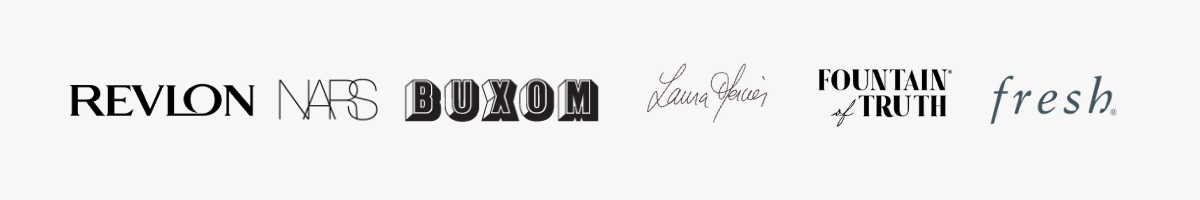
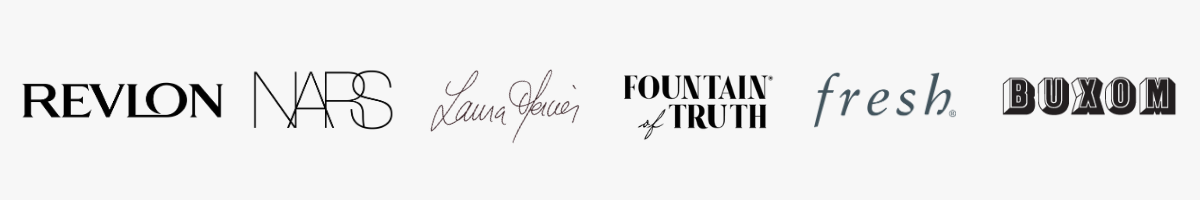
discount codes

Changed region(s): [[0.0, 0.33, 0.6475, 0.69], [0.6783, 0.33, 0.9867, 0.63], [0.185, 0.36, 0.2158, 0.39]]

diff --git a/discountcodes.html b/discountcodes.html
@@ -1,0 +1,123 @@
+<!DOCTYPE HTML>
+<html>
+	<head>
+		<title>Yazi Cole</title>
+		<meta charset="utf-8" />
+		<meta name="viewport" content="width=device-width, initial-scale=1, user-scalable=no" />
+		<link rel="stylesheet" href="assets/css/home.css" />
+	</head>
+	<body class="homepage is-preload">
+		<div id="page-wrapper">
+
+			<!-- Header -->
+				<section id="header">
+                    
+                    
+					<!-- Logo -->
+                    <script src="https://kit.fontawesome.com/757befd169.js" crossorigin="anonymous"></script>
+                    <h1><a href="index.html" >Yazi Cole</a></h1>
+									<ul class="social">
+										 <li><a href="https://www.tiktok.com/@yazicole" class="fab fa-tiktok" target="_blank"></a></li>
+                                        <li><a href="https://www.instagram.com/yazicole/" class="icon brands fa-instagram" target="_blank"><span class="label">Instagram</span></a></li>
+                                        <li><a href="https://www.youtube.com/yazicole" class="icon brands fa-youtube" target="_blank"><span class="label">YouTube</span></a></li>
+                                        <li><a href="https://www.facebook.com/YaziCole/" class="icon brands fa-facebook-f" target="_blank"><span class="label">Facebook</span></a></li>
+										<li><a href="https://www.pinterest.com/YaziCole/" class="icon brands fa-pinterest-p" target="_blank"><span class="label">Pinterest</span></a></li>
+									</ul>
+								
+					<!-- Navigation -->
+						<nav id="nav">
+							<ul>
+								<li><a href="index.html">Home</a></li>
+								<li><a href="gallery.html" target="_blank">Gallery</a></li>
+								<li>
+                                    <a href="#">Yazi Finds</a>
+                                    <ul>
+										<li><a href="#">Best Sellers</a></li>
+										<li><a href="#">Newest Finds</a></li>
+										<li><a href="#">My Favorites</a></li>
+                                    </ul>
+                                </li>
+								<li class="current"><a href="discountcodes.html">Discount Codes</a></li>
+								<li><a href="#">Contact</a></li>
+							</ul>
+						</nav>
+                        <br>
+                    
+                    
+					<!-- Discount Codes -->
+                    <section id="intro" class="container">
+                        
+				<div class="container">
+                    
+					<div class="row gtr-150">
+						<div class="col-6 col-12-medium">
+							
+                            <!-- Picture -->
+                            <span class="image fit"><img src="images/discountpicture.jpg" alt="" /></span>
+							
+						</div>
+						<div class="col-6 col-12-medium imp-medium">
+                            <header class="major"><h2>Discount Codes</h2></header>
+                            <p style="color:black">Save money and shop your favorite products by using the codes below.</p>
+                            <br>
+                            
+									<a href="https://us.shein.com/" target="_blank" class="button alt large">SHEIN "YAZICOLE15"</a>
+                                <br>
+                            <br>
+									<a href="https://glamnetic.com/" target="_blank" class="button alt large">GLAMNETIC "TIKTOK25"</a>
+                                <br>
+                            <br>
+								<a href="https://ttdeye.com/" target="_blank" class="button alt large">TTDEYE “YAZICOLE”</a>
+						</div>
+					</div>
+				</div>
+                    </section>
+                    </section>
+            
+            <!-- Footer -->
+            <div id="footer">
+                <div class="container">
+                    <h2>Stay Connected</h2>
+                    
+                <ul class="social">
+								        <li>
+                                            <a href="https://www.tiktok.com/@yazicole" class="fab fa-tiktok" target="_blank"></a>
+                                        </li>
+                                        <li><a href="https://www.instagram.com/yazicole/" class="icon brands fa-instagram" target="_blank"><span class="label">Instagram</span></a>
+                                        </li>
+                                        <li>
+                                        <a href="https://www.youtube.com/yazicole" class="icon brands fa-youtube" target="_blank"><span class="label">YouTube</span></a>
+                                        </li>
+                                        <li>
+                                        <a href="https://www.facebook.com/YaziCole/" class="icon brands fa-facebook-f" target="_blank"><span class="label">Facebook</span></a>
+                                        </li>
+                                        <li>
+										<a href="https://www.pinterest.com/YaziCole/" class="icon brands fa-pinterest-p" target="_blank"><span class="label">Pinterest</span></a>
+                                        </li>
+									</ul>
+									
+                </div>
+            </div>
+            
+            <!-- Copyright -->
+            <div id="copyright">
+                <ul class="links">
+				    <li>&copy; YaziCole, <script>
+                        var CurrentYear = new Date().getFullYear()
+                        document.write(CurrentYear)
+                        </script>. All rights reserved.</li>
+                </ul>
+            </div>
+            
+
+
+		<!-- Scripts -->
+			<script src="assets/js/jquery.min.js"></script>
+			<script src="assets/js/jquery.dropotron.min.js"></script>
+			<script src="assets/js/browser.min.js"></script>
+			<script src="assets/js/breakpoints.min.js"></script>
+			<script src="assets/js/util.js"></script>
+			<script src="assets/js/main.js"></script>
+            
+	</body>
+</html>

diff --git a/index.html b/index.html
@@ -37,7 +37,7 @@
 										<li><a href="#">My Favorites</a></li>
                                     </ul>
                                 </li>
-								<li><a href="#">Discount Codes</a></li>
+								<li><a href="discountcodes.html">Discount Codes</a></li>
 								<li><a href="#">Contact</a></li>
 							</ul>
 						</nav>
@@ -86,7 +86,7 @@
                 
 					<div class="container">
                         <a href="#" class="image featured" target="_blank">
-								<img src="images/brands1.png" alt="revlon nars laura mercier fountain of truth fresh buxom" />
+								<img src="images/brands.png" alt="revlon nars laura mercier fountain of truth fresh buxom" />
 							</a>                   
                                 
 				<!-- Demographics -->
@@ -96,7 +96,7 @@
 										</header>
                                         
                     <a href="https://www.tiktok.com/@yazicole" class="image featured" target="_blank">
-								<img src="images/demographics2.png" alt="Tiktok demographics for yazicole" />
+								<img src="images/demographics.png" alt="Tiktok demographics for yazicole" />
 							</a>
 									
 
